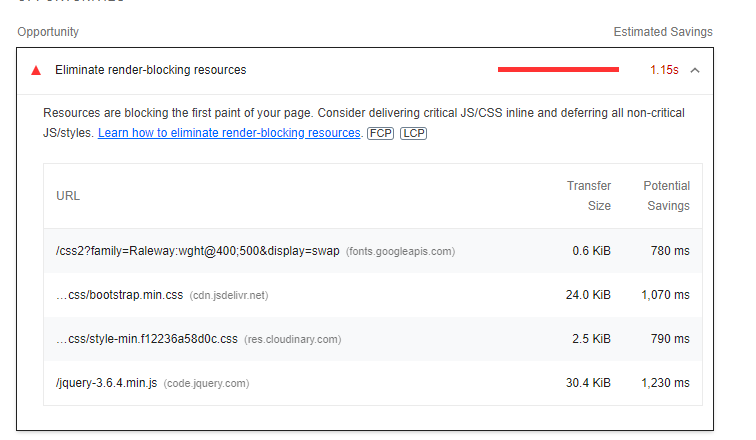
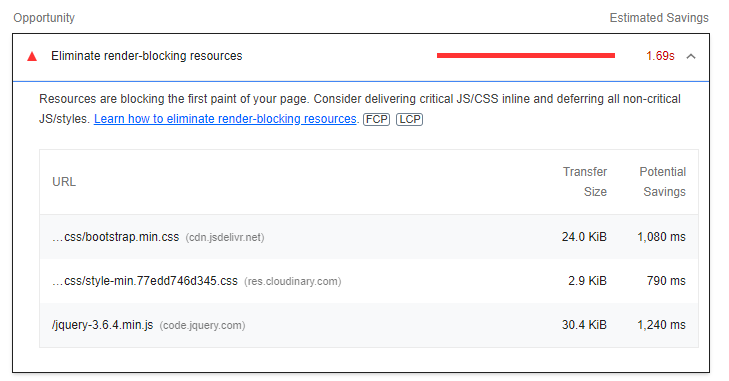
docs: Update Lighthose testing in README

diff --git a/README.md b/README.md
@@ -659,14 +659,19 @@ This was marked was Won't Have by the end of the project. I originally thought t
 
 
 ### Lighthouse Testing
- - When tested on desktop, the website scores 97 on performance but only 83 on Best Practices. The main reason for the lower score on Best Practices is because the Boostrap and jQuery files that are rendered log an issue to the console which says "Audit usage of navigator...". As these were from CDN files, I was unable to fix this error.
- - The other reason was because 1 image (the hero image) doesn't have the correct aspect ratio but no matter which width and height I gave, it didn't fix the issue. I assume this is because it's rendered with a border-radius. I could not fix this.
- <br>
-  
 ![Lighthouse Metrics](documentation/images/lighthouse-desktop.png)
+  - Testing on Desktop has given a variety of scores, going from a score between 85 and 97 for Performance and a score between 83 to 92 for Best Practices. The last tests before submissions are posted below.
+  - When tested on desktop, the website scores 95 on performance.
+  - For a while, the best score I could achieve for Best Practices was only 83. The main reason for the lower score on Best Practices was because the Boostrap and jQuery files that are rendered logged an issue to the console which said "Audit usage of navigator...". As these were from CDN files, I was unable to fix this error manually. However upon further testing, this seems to have disappeared as an error.
+  - The other reason was because 1 image (the hero image) doesn't have the correct aspect ratio but no matter which width and height I gave, it didn't fix the issue. I assume this is because it's rendered with a border-radius. I could not fix this.
+
+ <br>
+
 ![Lighthouse Metrics](documentation/images/lighthouse-practices-desktop.png)
 
- - On mobile, the performace is 94. This was originally lower because of a cumulative layout shift of 0.219. Recommendations for this were to add width and height to images and change the images to .webp format.
+<br>
+
+ - On mobile, the performace is 92. This was originally lower because of a cumulative layout shift of 0.219. Recommendations for this were to add width and height to images and change the images to .webp format.
  - To change images from .jpg to .webp I used the website [WEBP Converter](https://cloudconvert.com/webp-converter).
  - I also removed the background image on the Hero section of the index page to try and help with the CLS.
  - The final issue and the largest still is "Eliminate render-blocking resources". This has to do with the Boostrap CSS file and the jQuery script. After researching, because they're from a CDN, I don't see any option to change them.
@@ -676,13 +681,13 @@ This was marked was Won't Have by the end of the project. I originally thought t
 
 | Page | Device | Category | Result |
 |------|--------|----------|--------|
-|Index | Mobile | Performance | 94% |
+|Index | Mobile | Performance | 92% |
 |||Accessibility| 100% |
 |||Best Practice | 92% |
 |||SEO | 100% |
-|| Desktop | Performance | 97% |
+|| Desktop | Performance | 95% |
 ||| Accessibility | 100% |
-||| Best Practice | 83% |
+||| Best Practice | 92% |
 ||| SEO | 100% |
  <br>
 
